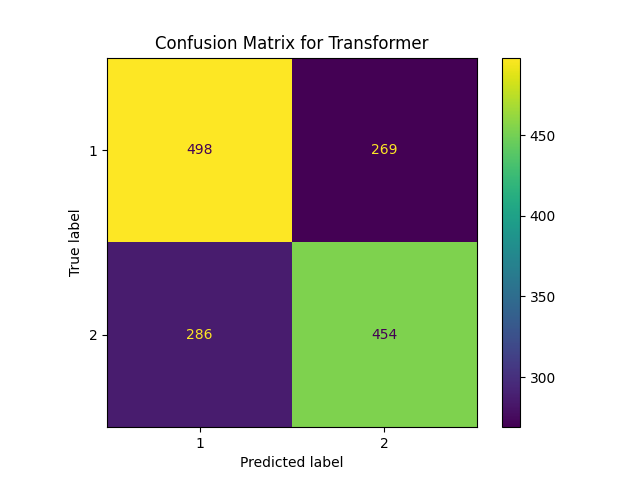
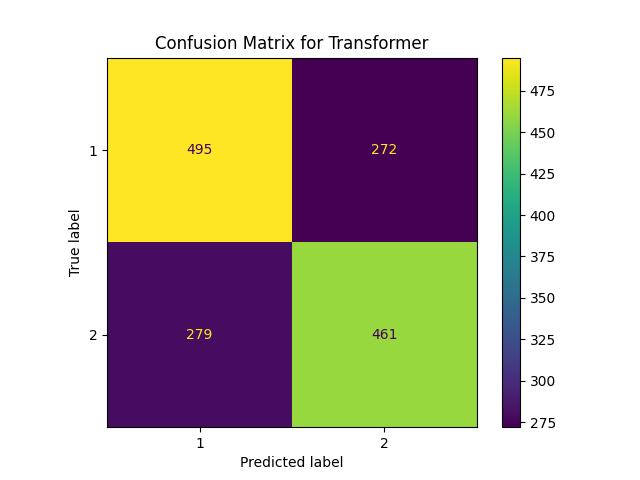
added RNN and LSTM. also minor refactors

diff --git a/models.py b/models.py
@@ -1,20 +1,90 @@
 # models.py
 
+import torch
+import torch.nn as nn
+import torch.nn.functional as F
 from sklearn.ensemble import RandomForestClassifier, GradientBoostingClassifier
 from sklearn.svm import SVC
 from sklearn.linear_model import LogisticRegression
 from sklearn.neighbors import KNeighborsClassifier
 from sklearn.naive_bayes import GaussianNB
-import torch.nn as nn
 
 
-# transformer
-class MMATransformerNet(nn.Module):
+# fully connected neural network
+class FCNN(nn.Module):
     def __init__(self, input_size):
-        super(MMATransformerNet, self).__init__()
+        super(FCNN, self).__init__()
+        # fully connected layer
+        self.fc1 = nn.Linear(input_size, 512)
+        # relu activation layer
+        self.relu = nn.ReLU()
+        # fully connected layer
+        self.fc2 = nn.Linear(512, 2)
+
+    def forward(self, x):
+        out = self.fc1(x) # (batch_size, 512)
+        out = self.relu(out) # (batch_size, 512)
+        out = self.fc2(out) # (batch_size, 2)
+        return out
+
+
+# recurrent neural network
+class RNN(nn.Module):
+    def __init__(self, input_size, hidden_size=64, num_layers=1):
+        super(RNN, self).__init__()
+        self.input_size = input_size
+        self.hidden_size = hidden_size
+        self.num_layers = num_layers
+        # rnn expects input: (batch, seq_len, input_dim)
+        self.rnn = nn.RNN(
+            input_size=1,
+            hidden_size=hidden_size,
+            num_layers=num_layers,
+            batch_first=True,
+        )
+        self.fc = nn.Linear(hidden_size, 2)
+
+    def forward(self, x):
+        # x shape: (batch_size, input_size)
+        x = x.unsqueeze(-1) # (batch_size, input_size, 1)
+        out, _ = self.rnn(x) # out: (batch_size, input_size, hidden_size)
+        out = out[:, -1, :] # (batch_size, hidden_size)
+        out = self.fc(out) # (batch_size, 2)
+        return out
+
+
+# long short-term memory neural network
+class LSTM(nn.Module):
+    def __init__(self, input_size, hidden_size=64, num_layers=1):
+        super(LSTM, self).__init__()
+        self.input_size = input_size
+        self.hidden_size = hidden_size
+        self.num_layers = num_layers
+        self.lstm = nn.LSTM(
+            input_size=1,
+            hidden_size=hidden_size,
+            num_layers=num_layers,
+            batch_first=True,
+        )
+        self.fc = nn.Linear(hidden_size, 2)
+
+    def forward(self, x):
+        # x shape: (batch_size, input_size)
+        x = x.unsqueeze(-1) # (batch_size, input_size, 1)
+        out, (hn, cn) = self.lstm(x) # out: (batch_size, input_size, hidden_size)
+        # take the last timestep
+        out = out[:, -1, :] # (batch_size, hidden_size)
+        out = self.fc(out) # (batch_size, 2)
+        return out
+
+
+# transformer neural network
+class Transformer(nn.Module):
+    def __init__(self, input_size):
+        super(Transformer, self).__init__()
         self.num_features = input_size
         self.embedding_dim = 64
-        # embedding layer for numerical features
+        # embedding layer
         self.embedding = nn.Linear(1, self.embedding_dim)
         # positional encoding
         self.positional_encoding = nn.Parameter(
@@ -29,31 +99,13 @@ class MMATransformerNet(nn.Module):
         self.fc = nn.Linear(self.num_features * self.embedding_dim, 2)
 
     def forward(self, x):
-        x = x.unsqueeze(-1)  # (batch_size, num_features, 1)
-        x = self.embedding(x)  # (batch_size, num_features, embedding_dim)
+        x = x.unsqueeze(-1) # (batch_size, num_features, 1)
+        x = self.embedding(x) # (batch_size, num_features, embedding_dim)
         x = x + self.positional_encoding
         x = self.transformer_encoder(x)
-        x = x.flatten(1)  # (batch_size, num_features * embedding_dim)
-        x = self.fc(x)  # (batch_size, 2)
+        x = x.flatten(1) # (batch_size, num_features * embedding_dim)
+        x = self.fc(x) # (batch_size, 2)
         return x
-
-
-# feedforward neural network
-class MMANet(nn.Module):
-    def __init__(self, input_size):
-        super(MMANet, self).__init__()
-        # fully connected layer
-        self.fc1 = nn.Linear(input_size, 512)
-        # ReLU activation layer
-        self.relu = nn.ReLU()
-        # fully connected layer
-        self.fc2 = nn.Linear(512, 2)
-
-    def forward(self, x):
-        out = self.fc1(x)  # (batch_size, 512)
-        out = self.relu(out)  # (batch_size, 512)
-        out = self.fc2(out)  # (batch_size, 2)
-        return out
 
 
 def initialize_models(input_size, device):
@@ -63,16 +115,20 @@ def initialize_models(input_size, device):
 
     models["Gradient Boosting"] = GradientBoostingClassifier(random_state=21)
 
-    models["Support Vector Machine"] = SVC(probability=True, random_state=21)
+    models["SVM"] = SVC(probability=True, random_state=21)
 
     models["Logistic Regression"] = LogisticRegression(max_iter=1000, random_state=21)
 
-    models["K-Nearest Neighbors"] = KNeighborsClassifier()
+    models["KNN"] = KNeighborsClassifier()
 
     models["Naive Bayes"] = GaussianNB()
 
-    models["Neural Network"] = MMANet(input_size).to(device)
+    models["FCNN"] = FCNN(input_size).to(device)
 
-    models["Transformer"] = MMATransformerNet(input_size).to(device)
+    models["RNN"] = RNN(input_size).to(device)
+
+    models["LSTM"] = LSTM(input_size).to(device)
+
+    models["Transformer"] = Transformer(input_size).to(device)
 
     return models

diff --git a/data.py b/data.py
@@ -23,7 +23,7 @@ from preprocessing import (
 def load_ufc_data():
     try:
         print("Loading UFC data...")
-        fight_data_path = os.path.join(DATA_PATH, "ufc/ufc_events.csv")
+        fight_data_path = os.path.join(DATA_PATH, "ufc_events.csv")
 
         fight_data = pd.read_csv(
             fight_data_path, quotechar='"', parse_dates=["EventDate"]
@@ -401,7 +401,7 @@ def load_ufc_data():
         final_df = pd.concat([X_processed_df, y_df], axis=1)
 
         # save the processed data to csv
-        processed_data_path = os.path.join(DATA_PATH, "ufc/processed_ufc_data.csv")
+        processed_data_path = os.path.join(DATA_PATH, "processed_ufc_data.csv")
         final_df.to_csv(processed_data_path, index=False, quotechar='"')
         print(f"Processed data saved to {processed_data_path}")
 

diff --git a/config.py b/config.py
@@ -10,10 +10,10 @@ from google.colab import drive
 drive.mount("/content/drive")
 
 # paths
-BASE_PATH = "/content/drive/MyDrive/files"
-DATA_PATH = os.path.join(BASE_PATH, "data")
+BASE_PATH = "/content/drive/MyDrive/dev"
+DATA_PATH = os.path.join(BASE_PATH, "data/ufc")
 OUTPUT_PATH = os.path.join(
-    BASE_PATH, "models/ufc/output", datetime.now().strftime("%Y-%m-%d_%H-%M-%S")
+    BASE_PATH, "output/mma-predictive-modeling", datetime.now().strftime("%Y-%m-%d_%H-%M-%S")
 )
 
 # ensure directories exist

diff --git a/evaluation.py b/evaluation.py
@@ -16,7 +16,7 @@ def evaluate_models(models, X_train, X_test, y_train, y_test, label_encoder, dev
 
     # iterate over each model
     for name, model in models.items():
-        if name in ["Neural Network", "Transformer"]:
+        if name in ["FCNN", "RNN", "LSTM", "Transformer"]:
             # set model to evaluation mode
             model.eval()
             with torch.no_grad():

diff --git a/training.py b/training.py
@@ -6,7 +6,7 @@ import numpy as np
 
 
 def train_model(name, model, X_train, y_train, device):
-    if name in ["Neural Network", "Transformer"]:
+    if name in ["FCNN", "RNN", "LSTM", "Transformer"]:
         # training logic for pytorch models
         criterion = torch.nn.CrossEntropyLoss()
         optimizer = optim.SGD(model.parameters(), lr=0.001, weight_decay=0.1)

diff --git a/README.md b/README.md
@@ -9,17 +9,11 @@ This project aims to predict the outcomes of MMA (Mixed Martial Arts) fights usi
 ![Comparison of Model Accuracies](results/model_accuracy_comparison.png)
 ![Learning Curve for Random Forest](results/learning_curve_Random_Forest.png)
 ![Learning Curve for Gradient Boosting](results/learning_curve_Gradient_Boosting.png)
-![Learning Curve for Support Vector Machine](results/learning_curve_Support_Vector_Machine.png)
+![Learning Curve for Support Vector Machine](results/learning_curve_SVM.png)
 ![Learning Curve for Logistic Regression](results/learning_curve_Logistic_Regression.png)
-![Learning Curve for K-Nearest Neighbors](results/learning_curve_K-Nearest_Neighbors.png)
+![Learning Curve for K-Nearest Neighbors](results/learning_curve_KNN.png)
 ![Learning Curve for Naive Bayes](results/learning_curve_Naive_Bayes.png)
-![Learning Curve for Neural Network](results/learning_curve_Neural_Network.png)
+![Learning Curve for Fully Connected Neural Network](results/learning_curve_FCNN.png)
+![Learning Curve for Recurrent Neural Network](results/learning_curve_RNN.png)
+![Learning Curve for Long Short-Term Memory Neural Network](results/learning_curve_LSTM.png)
 ![Learning Curve for Transformer](results/learning_curve_Transformer.png)
-![Confusion Matrix for Random Forest](results/confusion_matrix_Random_Forest.png)
-![Confusion Matrix for Gradient Boosting](results/confusion_matrix_Gradient_Boosting.png)
-![Confusion Matrix for Support Vector Machine](results/confusion_matrix_Support_Vector_Machine.png)
-![Confusion Matrix for Logistic Regression](results/confusion_matrix_Logistic_Regression.png)
-![Confusion Matrix for K-Nearest Neighbors](results/confusion_matrix_K-Nearest_Neighbors.png)
-![Confusion Matrix for Naive Bayes](results/confusion_matrix_Naive_Bayes.png)
-![Confusion Matrix for Neural Network](results/confusion_matrix_Neural_Network.png)
-![Confusion Matrix for Transformer](results/confusion_matrix_Transformer.png)
